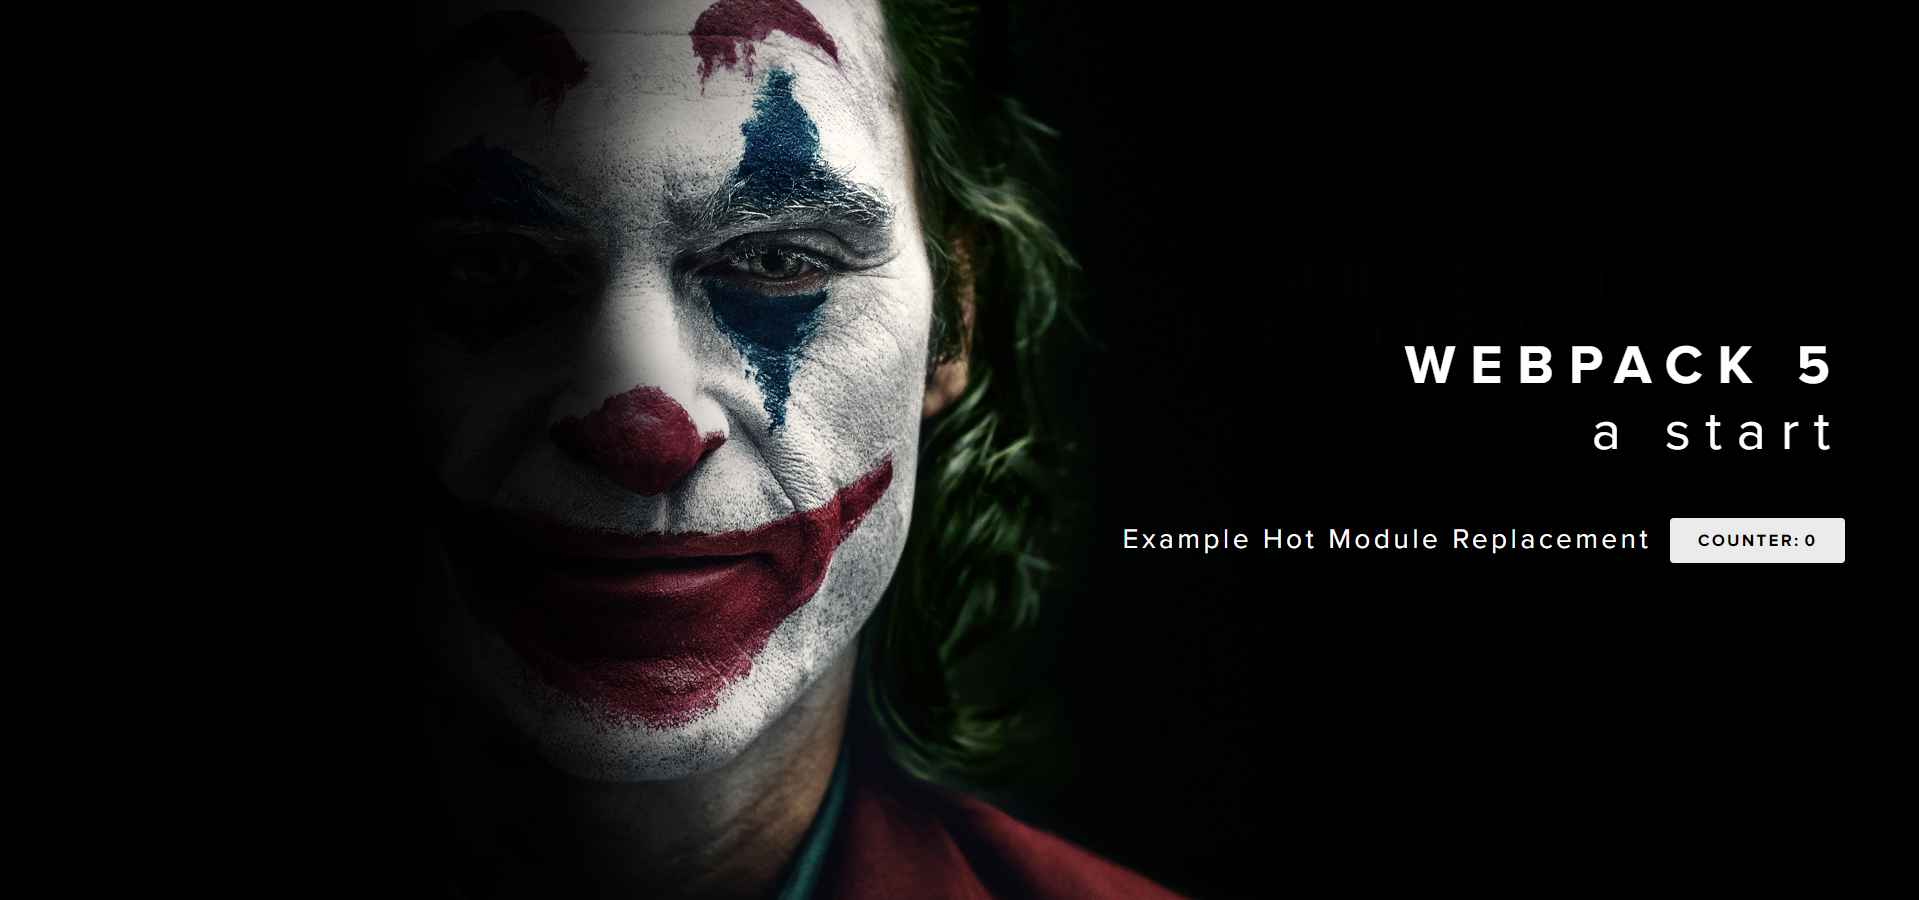
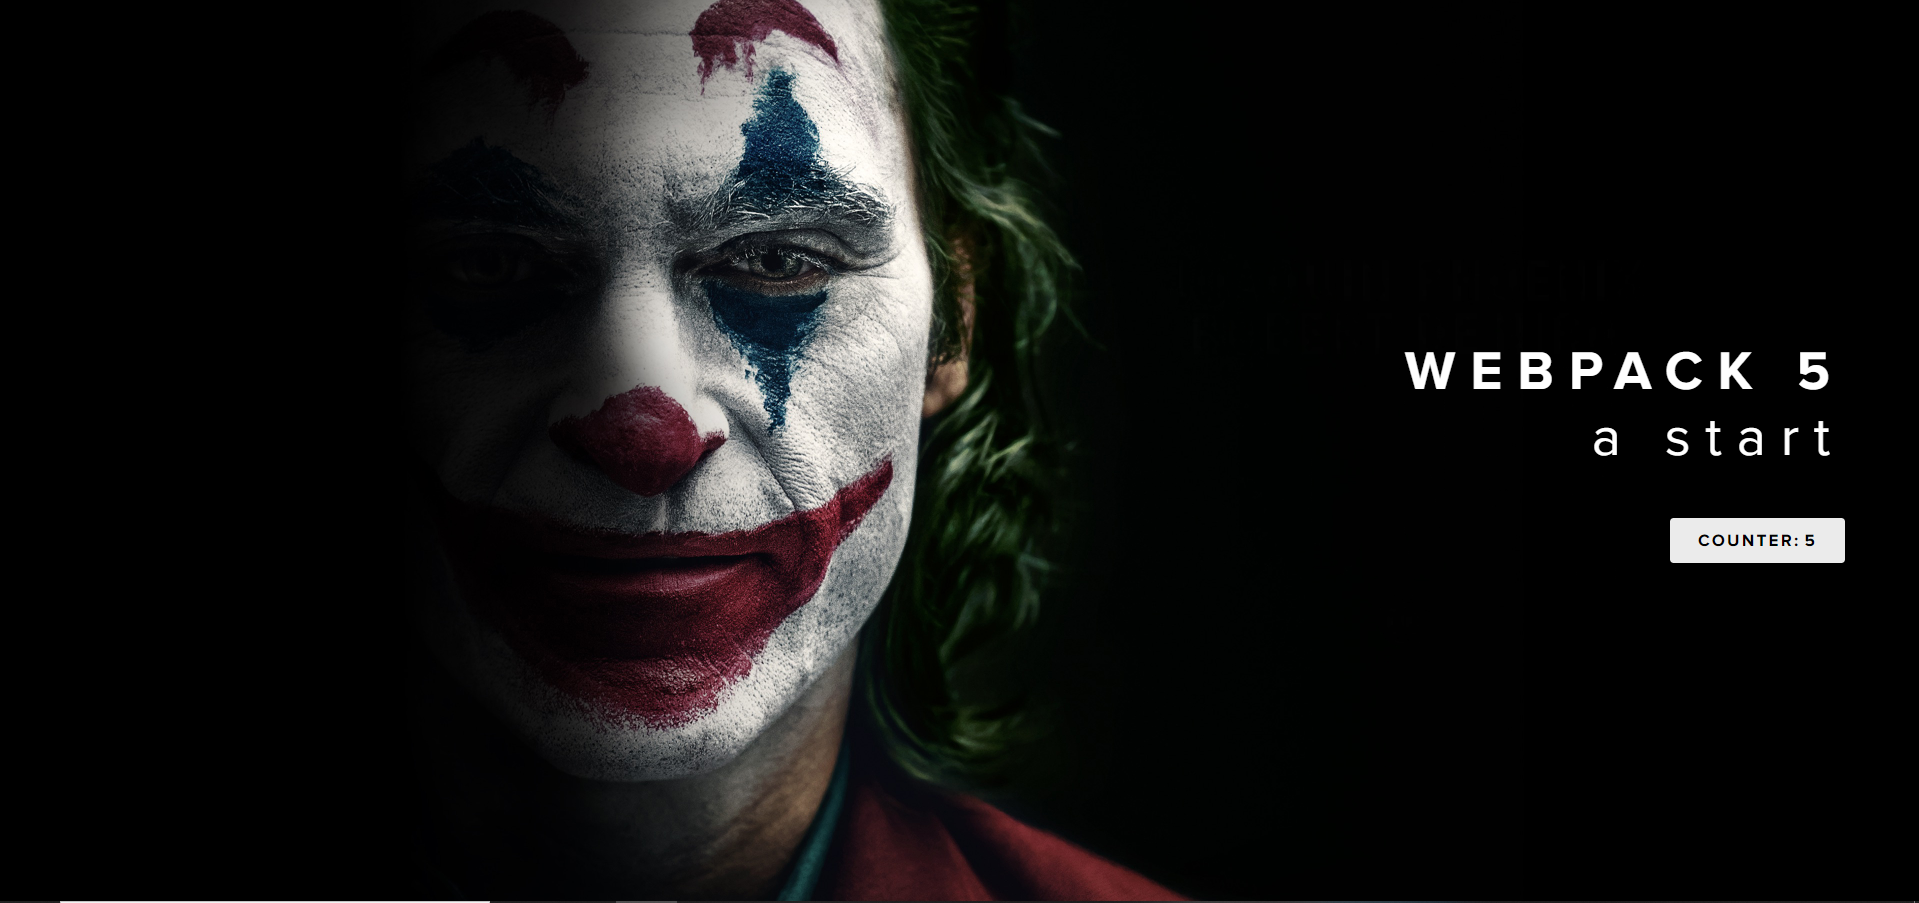
Minor fixes

diff --git a/src/App.tsx b/src/App.tsx
@@ -1,6 +1,6 @@
 import { useState } from 'react';
 
-import Footer from './components/Footer';
+import { Footer } from './components';
 
 const App = () => {
   const [counter, setCounter] = useState(0);
@@ -11,7 +11,6 @@ const App = () => {
       <strong>WEBPACK 5</strong>
       <Footer />
       <div className='webpack__info'>
-        <p className='webpack__text'>Example Hot Module Replacement</p>
         <button
           onClick={increaseCounter}
           className='webpack__button'

diff --git a/src/components/Footer/index.tsx b/src/components/Footer/index.tsx
@@ -1,3 +1,1 @@
-const Footer = () => <div>a start</div>;
-
-export default Footer;
+export const Footer = () => <div>a start</div>;

diff --git a/src/components/index.ts b/src/components/index.ts
@@ -1,0 +1,1 @@
+export { Footer } from './Footer';
